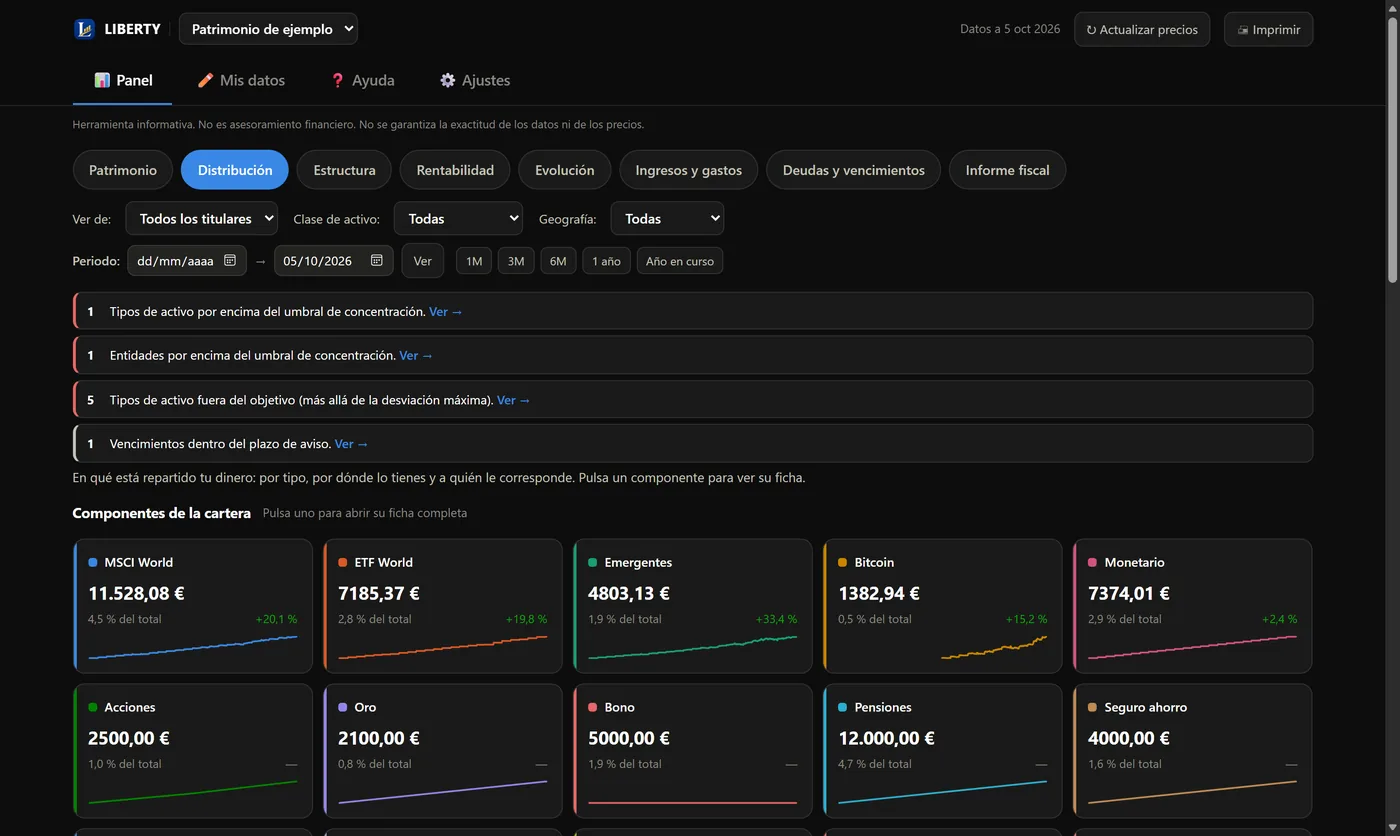
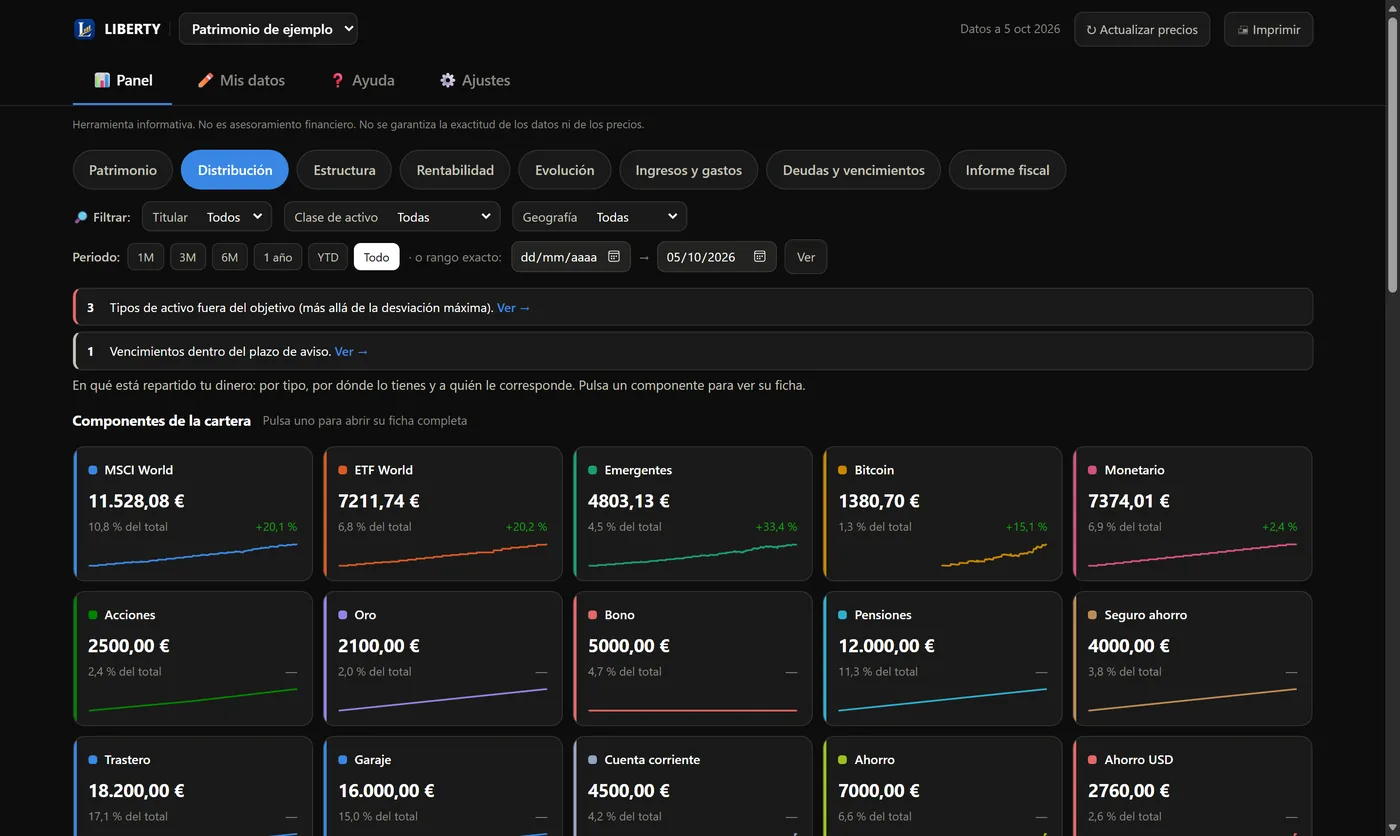
Capturas v1.2.1 (filtros, periodo, evolución suave, estructura rebalanceada) y SHA

diff --git a/index.html b/index.html
@@ -532,7 +532,7 @@
       <summary>Verificar integridad (SHA-256)</summary>
       <p>Comprueba que el archivo descargado es exactamente este, sin manipular. En PowerShell:
       <code>Get-FileHash .\Liberty.exe -Algorithm SHA256</code> y compara con:</p>
-      <code class="hash">85b03af9b3d761a0221ffe5c63193effe349f28245c6527d05e05e43286bc452</code>
+      <code class="hash">5867c15ee8ca96237b47baf3bbfeb8ac5583c281339340e314a118b94cfd797c</code>
     </details>
     <p class="ver-versiones"><a href="https://github.com/AlonsoVine/liberty/releases" target="_blank" rel="noopener">Ver todas las versiones y novedades →</a></p>
   </div>
